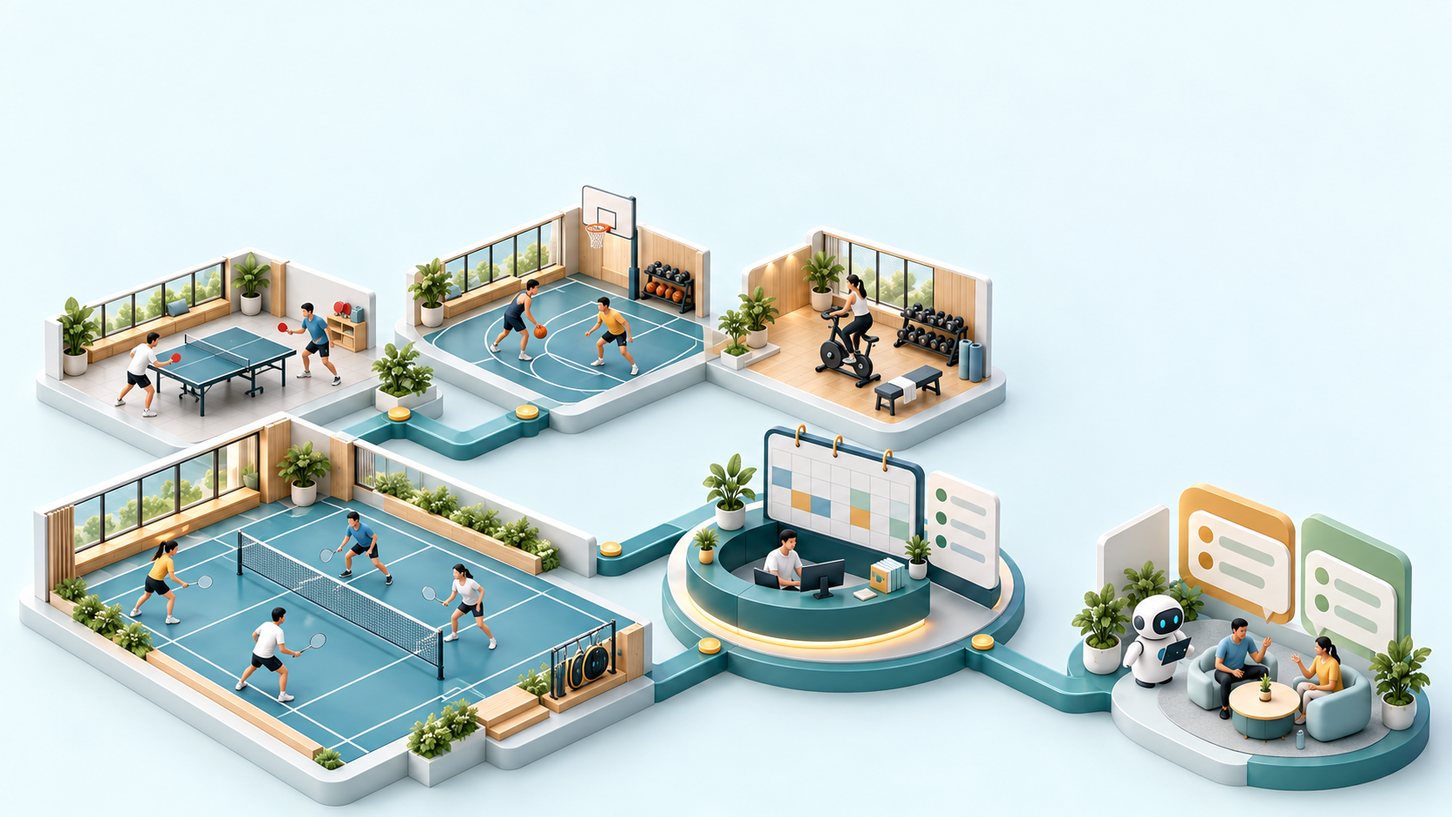
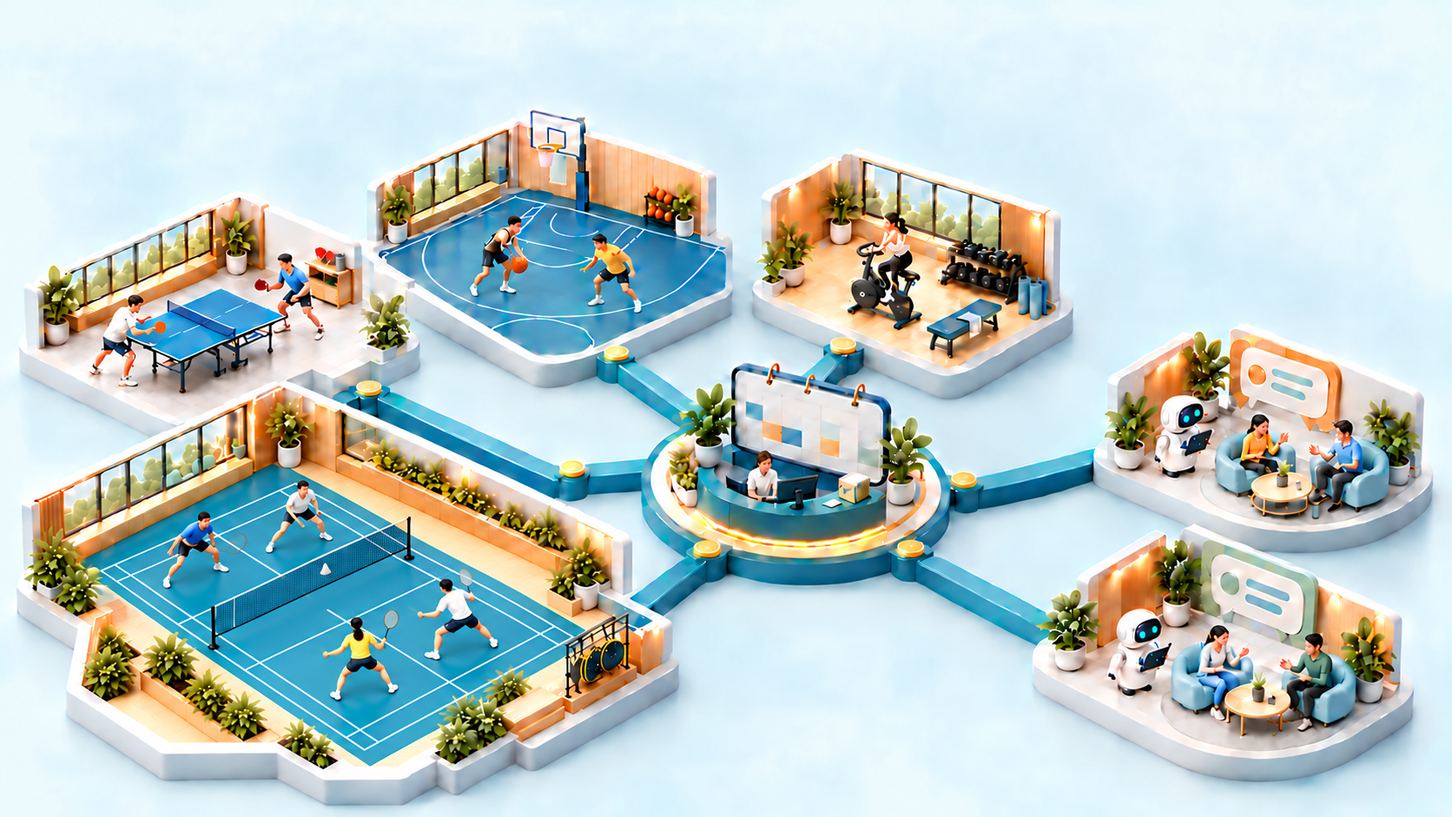
Refine sports markings, direct hub connections and glass login (v1.0)

diff --git a/app/static/gatherspace.css b/app/static/gatherspace.css
@@ -3,13 +3,16 @@
 .brand-mark .icon{width:30px;height:30px}
 .brand small{letter-spacing:1.3px}
 /* The concept scene belongs to the sign-in screen; dashboards keep their operational layout. */
-.login.gather-login{position:relative;isolation:isolate;min-height:max(100svh,640px);display:grid;grid-template-columns:minmax(0,1fr) minmax(280px,340px);align-items:start;gap:40px;padding:clamp(32px,4vw,72px);background:#eaf9fc url('/static/brand/gatherspace-login-desktop.png') center bottom/100% auto no-repeat}
+.login.gather-login{position:relative;isolation:isolate;min-height:max(100svh,640px);display:grid;grid-template-columns:minmax(0,1fr) minmax(280px,340px);align-items:start;gap:40px;padding:clamp(32px,4vw,72px);background:#eaf9fc url('/static/brand/gatherspace-login-desktop.png?v=star20261022') center bottom/100% auto no-repeat}
 .gather-login:before{content:"";position:absolute;inset:0;z-index:-1;pointer-events:none;background:linear-gradient(180deg,#f4f9fa80 0%,#f4f9fa00 20%)}
 .gather-login-title{align-self:start;min-width:0}
 .gather-login-title h1{display:flex;align-items:baseline;gap:20px;white-space:nowrap;font:650 clamp(42px,4.5vw,72px)/1.2 var(--display);letter-spacing:.06em;color:#123f4b}
 .gather-login-title h1 span{font:500 .38em/1.2 var(--display);letter-spacing:.015em}
 .gather-login-functions{white-space:nowrap;font-size:14px;font-weight:600;color:#1b4d59;margin-top:14px;line-height:1.8}
-.gather-login-access{width:100%;padding:28px;border:1px solid #ffffffd9;border-radius:16px;background:#fffffff0;box-shadow:0 16px 50px #103c4920;backdrop-filter:blur(16px)}
+.gather-login-access{width:100%;padding:28px;border:1px solid #ffffffb8;border-radius:16px;background:linear-gradient(135deg,#ffffff85,#e6f5fa52);box-shadow:0 18px 48px #123f4b1a,inset 0 1px 0 #ffffffb3,inset 0 -1px 0 #ffffff47;-webkit-backdrop-filter:blur(18px) saturate(135%);backdrop-filter:blur(18px) saturate(135%)}
+.gather-login .login-form input{background:#ffffff70;border-color:#ffffffc7;box-shadow:inset 0 1px 3px #15556308}
+.gather-login .login-form input:focus{background:#ffffffab;border-color:#197c8c;box-shadow:0 0 0 3px #197c8c24}
+@supports not ((backdrop-filter:blur(1px)) or (-webkit-backdrop-filter:blur(1px))){.gather-login-access{background:#f2fafbd9}}
 .gather-login .login-form h2{font-size:23px;margin:0 0 24px}
 .gather-login .login-form .field{margin-bottom:8px}
 .gather-login .login-form .btn{min-height:44px}
@@ -21,7 +24,8 @@
 .broadcast-global summary{cursor:pointer;font-size:12px;color:var(--muted)}
 .broadcast-global .check-label{margin-top:12px}
 .time-rule[hidden]{display:none}
+@media(min-width:761px) and (max-width:1620px) and (orientation:landscape){.login.gather-login{min-height:max(100svh,calc(400px + 44vw))}}
 @media(max-width:1000px){.login.gather-login{padding:32px;gap:24px;grid-template-columns:minmax(0,1fr) 320px}.gather-login-functions{font-size:12px}}
-@media(max-width:760px),(max-width:1000px) and (orientation:portrait){.login.gather-login{min-height:max(100svh,calc(min(100vw,560px)*1.25 + 340px));grid-template-columns:minmax(0,1fr);grid-template-rows:auto 1fr;gap:48px;padding:32px max(18px,env(safe-area-inset-right)) max(24px,env(safe-area-inset-bottom)) max(18px,env(safe-area-inset-left));background-image:url('/static/brand/gatherspace-login-mobile.png');background-size:min(100%,560px) auto;background-position:center top}.gather-login-title h1{font-size:44px;gap:14px}.gather-login-functions{font-size:12px;margin-top:10px}.gather-login-access{max-width:360px;justify-self:center;align-self:end;padding:24px}.broadcast-filter .field{min-width:0;width:100%;max-width:none}.broadcast-filter{gap:8px}}
+@media(max-width:760px),(max-width:1000px) and (orientation:portrait){.login.gather-login{min-height:max(100svh,calc(min(100vw,560px)*1.25 + 340px));grid-template-columns:minmax(0,1fr);grid-template-rows:auto 1fr;gap:48px;padding:32px max(18px,env(safe-area-inset-right)) max(24px,env(safe-area-inset-bottom)) max(18px,env(safe-area-inset-left));background-image:url('/static/brand/gatherspace-login-mobile.png?v=star20261022');background-size:min(100%,560px) auto;background-position:center calc(min(100vw,560px)*-.12)}.gather-login-title h1{font-size:44px;gap:14px}.gather-login-functions{font-size:12px;margin-top:10px}.gather-login-access{max-width:360px;justify-self:center;align-self:end;padding:24px}.broadcast-filter .field{min-width:0;width:100%;max-width:none}.broadcast-filter{gap:8px}}
 @media(max-width:359px){.login.gather-login{padding-left:max(16px,env(safe-area-inset-left));padding-right:max(16px,env(safe-area-inset-right))}.gather-login-title h1{font-size:40px}.gather-login-functions{font-size:11.5px}.gather-login-access{padding:22px}}
 @media(max-height:500px) and (min-width:761px){.login.gather-login{padding:24px;gap:24px;grid-template-columns:minmax(0,1fr) 310px}.gather-login-title h1{font-size:38px}.gather-login-functions{font-size:12px}.gather-login-access{padding:20px 24px}.gather-login .login-form h2{font-size:21px;margin-bottom:16px}}

diff --git a/app/static/index.html b/app/static/index.html
@@ -16,7 +16,7 @@
 <script src="/static/casual-workspace.js?v=1.0-confirm20261020" defer></script>
 <script src="/static/membership-workspace.js?v=1.0-confirm20261020" defer></script>
 <link rel="stylesheet" href="/static/schedule-workspace.css?v=1.0-confirm20261020">
-<link rel="stylesheet" href="/static/gatherspace.css?v=1.0-scene20261022">
+<link rel="stylesheet" href="/static/gatherspace.css?v=1.0-star20261022">
 <link rel="stylesheet" href="/static/bot-settings.css?v=1.0-inline20261022">
 </head>
 <body>

diff --git a/scripts/mobile_browser/check_brand.py b/scripts/mobile_browser/check_brand.py
@@ -57,7 +57,7 @@ try:
             portrait = width <= 760 or (width <= 1000 and height >= width)
             asset = 'gatherspace-login-mobile.png' if portrait else 'gatherspace-login-desktop.png'
             check(f'{width} selects dedicated background', asset in page.locator('.gather-login').evaluate('el=>getComputedStyle(el).backgroundImage'))
-            safe = page.evaluate("() => {const scene=document.querySelector('.gather-login').getBoundingClientRect(), form=document.querySelector('.gather-login-access').getBoundingClientRect();const mobile=matchMedia('(max-width:760px),(max-width:1000px) and (orientation:portrait)').matches;return mobile? form.top >= Math.min(innerWidth,560)*(1672/941)*.69 : form.bottom < scene.bottom-innerWidth*(941/1672)*.42;}")
+            safe = page.evaluate("() => {const scene=document.querySelector('.gather-login').getBoundingClientRect(), form=document.querySelector('.gather-login-access').getBoundingClientRect();const mobile=matchMedia('(max-width:760px),(max-width:1000px) and (orientation:portrait)').matches;const illustrationTop=form.left<innerWidth*.75?.81:.60;return mobile? form.top >= Math.min(innerWidth,560)*(1672/941)*.69 : form.bottom < scene.bottom-innerWidth*(941/1672)*illustrationTop;}")
             check(f'{width} form clears sports and group illustration',safe)
             check('login product name','聚场' in page.title())
             check('login intro only title and core line',''.join(page.locator('.gather-login-title').inner_text().split())=='聚场GatherSpace场地安排·活动报名·赛事组织·机器人与群')

diff --git a/docs/LOGIN_ARTWORK.md b/docs/LOGIN_ARTWORK.md
@@ -1,27 +1,158 @@
 # Login artwork
 
-The desktop and mobile backgrounds were generated with the built-in image generation tool. The login form is real HTML, separate from the artwork. The dashboard keeps its operational layout.
+Generated and edited with the built-in imagegen tool. The administrator form is live HTML with translucent glass styling, not part of the raster. Its position is retained. The authenticated dashboard keeps its operational layout.
 
-- [Desktop background](../app/static/brand/gatherspace-login-desktop.png): badminton in the lower-left foreground, then table tennis, basketball and a gym; group interaction at lower right, with login space above it.
-- [Mobile background](../app/static/brand/gatherspace-login-mobile.png): a separate portrait composition with the login form below the sports scene.
-- Styling and responsive selection: `app/static/gatherspace.css`.
+- [Desktop background](../app/static/brand/gatherspace-login-desktop.png): 1672 × 941.
+- [Mobile background](../app/static/brand/gatherspace-login-mobile.png): 941 × 1671.
+- Responsive backgrounds and glass surface: `app/static/gatherspace.css`.
 
-## Desktop generation prompt
+One central management hub connects directly to four sports venues (badminton, table tennis, basketball and a gym) and two chat groups through six independent branches. Badminton remains the foreground scene on the left. The mobile version is separately composed with space for the title above and form below.
+
+## Court and movement references
+
+- [BWF TV: World Tour Finals 2024 women's doubles highlights, at 00:33](https://www.youtube.com/watch?v=LmKah_tkwcg&t=33s): a frame captured from the actual playing video to guide full-court markings and four-player orientation.
+- [Sport England: Sports Halls Design and Layouts, page 43](https://sportengland-production-files.s3.eu-west-2.amazonaws.com/s3fs-public/sports-halls-design-and-layouts-2012.pdf): badminton court plan.
+- [FIBA Official Basketball Rules 2024](https://assets.fiba.basketball/image/upload/documents-corporate-fiba-official-rules-2024-v10a.pdf): basketball court diagram.
+- [ITTF Statutes 2023, section 2.1](https://db.ittf.com/sites/default/files/public/2023-06/2023_ITTF_Statutes_tracked_changes_version.pdf): table and net layout.
+
+The real match is used as a reference for the local badminton redraw. The court, net and four players are then oriented together along the exterior building's long axis. Broadcast logos, scores, spectator stands and athlete likenesses are not included in the illustration. Reference screenshots and PDF pages are kept outside the public project. Court geometry and human poses are visually reviewed illustration details, not measured sports-facility drawings.
+
+## Key prompt set
+
+### Desktop composition
 
 ```text
-Edit the supplied GatherSpace login illustration, preserving its premium soft 3D architectural miniature style, pale icy-blue background, teal infrastructure paths, warm oak and muted amber accents, realistic human proportions, gentle daylight and clean polished rendering. Create a WIDE 16:9 desktop login background, preferably 1920x1080. Recompose the whole scene for real login UI overlays, not a screenshot. No lettering, logos, numbers, watermark or drawn login form.
+Use case: stylized-concept. Asset: replacement 16:9 desktop login background, 1920x1080, for the existing GatherSpace website. Image 1 is STYLE REFERENCE ONLY. Rebuild the layout and court markings from scratch; do not inherit its incorrect lines or chain connections. Retain premium soft 3D architectural miniatures, pale blue-white seamless ground, matte teal, warm oak, restrained amber, gentle daylight, physically plausible people. No text, no logo, no watermark and NO painted login form.
 
-Composition: the upper-left 40% width and top 17% height are quiet blank background reserved for the product title. The upper-right rectangle x=73%–98%, y=8%–57% must be completely EMPTY pale background for a real login form. Do not place any people, chat cards, bot, or architecture behind this reserved rectangle. Put the group-and-robot island entirely in the LOWER RIGHT x=73%–96%, y=65%–94%, unobstructed and readable: one friendly small white assistant robot, two seated people, two simple upright chat cards with blank graphical lines. A compact venue scheduling hub with a calendar panel is at lower center x=49%–68%, y=64%–88%, with teal paths connecting all venues and the group island.
+ABSOLUTE TOPOLOGY: ONE central management hub with calendar and reception desk, surrounded by exactly SIX separate satellite islands: FOUR sports venues (badminton, table tennis, basketball, gym), and TWO distinct community chat groups. There must be exactly SIX independent teal paths, each starting directly at a different port on the CENTRAL hub and ending at ONE satellite. A clear star diagram, like a six-spoke wheel: central hub -> badminton; central hub -> table tennis; central hub -> basketball; central hub -> gym; central hub -> chat group A; central hub -> chat group B. Never connect satellite to satellite. Never join paths away from the hub, no shared trunk or ring road. Keep all six entire paths visible and separately traceable.
 
-Replace the left venue collection with exactly FOUR recognizable sports miniatures in a flowing ascending sequence: (1) BADMINTON is the largest, nearest foreground scene in the BOTTOM LEFT x=4%–43%, y=48%–92%. A real long rectangular turquoise badminton court, correctly drawn singles/doubles sidelines and service lines, ONE single net across the center width, four clearly separated adult doubles players, two per side, each holding exactly ONE small badminton racket in only one hand. Natural balanced ready stances, two arms and two legs each, no overhead action poses; one tiny shuttle. Badminton is the primary focal point. (2) TABLE TENNIS behind it at middle left x=5%–25%, y=27%–43%, exactly one rectangular table with one low center net and two adult players at opposite ends each with one small solid paddle. (3) BASKETBALL behind near upper center-left x=28%–47%, y=23%–44%, a clearly marked small half-court with a single hoop/backboard at its baseline, two players, one basketball only. (4) GYM upper-middle x=51%–68%, y=23%–45%, a wood-floored gym corner with one stationary bike and neatly racked dumbbells, one person riding the bike in a normal seated posture. All court planes, equipment scale, nets and activities must make physical sense. Keep islands apart, don’t merge courts or equipment. Use sparse, anatomically clean people rather than crowds. One racket per racket player, no duplicate limbs, no impossible hand grips. Leave generous breathing room between these modules. The reference is a style and concept source; remove the craft room, yoga room and second group island.
+Composition for actual HTML overlay: leave the top-left x=3–40%, y=3–15% quiet for the real title, and the upper-right rectangle x=77–99%, y=2–44% EMPTY light background for the existing real login box. Hub centered near x=53%,y=61%. Arrange satellites around it: large BADMINTON in lower left x=3–43%,y=58–94%, TABLE TENNIS upper left x=3–26%,y=27–49%, BASKETBALL upper mid-left x=29–48%,y=18–40%, GYM upper middle x=54–71%,y=20–40%; CHAT GROUP A middle-right x=77–97%,y=49–68%, CHAT GROUP B lower-right x=75–97%,y=77–95%. Exactly one small white robot plus two seated people and a simple upright chat-message card in EACH group island. The two groups are distinct endpoints, with separate connections. No duplicate sports.
+
+COURT ACCURACY IS ESSENTIAL. Use a slightly elevated isometric architectural view so all markings are legible. Construct markings as precise straight geometric lines on each planar court BEFORE placing people.
+
+BADMINTON: a true long rectangular 13.40 m x 6.10 m court, length-to-width 2.20:1 before perspective. Treat its two short ends as y=0 and y=13.40, width x=0..6.10. White outer rectangle. Two inner singles sidelines at x=0.46 and x=5.64, both run the entire length. Only TWO short-service transverse lines at y=4.72 and y=8.68 (1.98 m each side of the net). Only TWO doubles rear-service transverse lines at y=0.76 and y=12.64. Two center-service line segments at x=3.05: y=0..4.72 and y=8.68..13.40; these MUST STOP at the short-service lines and must NOT continue through the central forecourt. ONE real net spanning across width at y=6.70, with its posts at the doubles sidelines. No center-floor painted stripe under the net. NO extra tennis service boxes, circles, random grids or diagonal lines. Make the full boundary and line system visible. Four sparse adults, two on each side of the net, normal balanced ready positions. Each adult exactly two arms/two legs and only ONE badminton racket in one hand. No jumping, no intersecting bodies.
+
+TABLE TENNIS: exactly one dark teal rectangular table 2.74 m x 1.525 m, white perimeter lines, just ONE thin longitudinal doubles centre line dividing left/right halves, ONE low net across the midpoint perpendicular to its long axis. No additional transverse painted line or grid. Two players at opposite short ends, one paddle each.
+
+BASKETBALL: a clearly recognizable single-hoop FIBA-style HALF COURT (roughly 14 m long x 15 m wide, not a tiny badminton rectangle). ONE hoop at the center of baseline. A rectangular key 4.90 m wide, free-throw line 5.80 m from baseline, free-throw semicircle at its outer end, one small no-charge semicircle beneath basket, and one large three-point arc centered under the basket joining two short parallel corner lines leading to the baseline. Use the near semicircle of center court at the opposite edge. No arbitrary concentric circles, no tennis lines. Two natural standing players and a single ball.
+
+GYM: plain oak floor with NO court markings; a stationary bike with one normally seated rider, one dumbbell rack and an exercise bench. Keep human anatomy and equipment rational.
+
+Make badminton the largest and first foreground subject. Keep all sports courts separate from circulation paths. Beautiful calm professional miniature visualization, light glass-like material accents, clean composition, realistic anatomy and clear six-spoke architecture.
 ```
 
-## Mobile generation prompt
+### Badminton redraw from a real doubles match
 
 ```text
-Create a separate PORTRAIT 9:16 mobile login background for GatherSpace, around 1080x1920. Use the supplied wide illustration ONLY as a style/content reference. Keep the same premium soft 3D miniature architecture, icy pale-blue seamless background, teal paths, warm oak, restrained amber, friendly small robot and realistic human anatomy. This is a mobile website background, not a phone mockup. No text, logos, watermark, buttons or drawn login form.
+局部重绘第一张管理平台插图左下角的羽毛球场。第二张是从BWF官方真实女双比赛截取的全场画面，请以真实比赛画面为准确的运动学和场线参考，而不是沿用第一张错误的羽毛球场线。
 
-Very deliberate overlay zones: top 0%–14% is EMPTY pale background for a real title. Bottom 66%–100% is EMPTY pale background for a real mobile login form. Confine ALL illustrated objects to the middle 17%–62% height, within x=5%–95%. Keep a few percent of clear breathing room above the login zone. Compose one dense but orderly miniature campus flowing vertically, readable at phone width. Largest foreground focal point is BADMINTON at middle-lower left (approximately x=7%–68%, y=39%–60%), real rectangular turquoise court, correct badminton doubles/singles/service lines, just one net across its width, four adult players split two per side; each has exactly two arms/two legs and holds just ONE badminton racket with only one hand, in natural grounded ready stances. No jumping or awkward action, no merged limbs. Behind/above it, show TABLE TENNIS at x=8%–42%, y=21%–33% with one correct rectangular table/net and two players at opposite ends with single solid paddles, BASKETBALL half-court at x=48%–88%, y=18%–33% with one hoop/backboard and two players sharing one ball. A small GYM at x=56%–89%, y=34%–42% has a stationary bike with a rider seated normally and neatly stored dumbbells. Exactly four separate sporting areas, physically plausible court layouts and equipment.
+只替换第一张图里的羽毛球场内部。允许改变这块球场的局部观察角度和四人的站位，让它像第二张比赛画面那样能完整看清场地；保留左下角大平台的整体位置和尺寸，保留木墙、窗、植物和右侧球拍架。乒乓球、篮球、健身房、两个聊天群、中央管理岛、六条直接连接、留白、整张构图和1672x941画布全都不变。
 
-A SMALL friendly robot-and-group island is at lower right x=71%–94%, y=48%–60%, with one robot and two seated adults and a single stylized upright chat card; this must stay ABOVE the blank form area. A compact calendar board between sports modules represents shared scheduling. Connect modules using restrained teal walkways. Avoid crowds and clutter, make hands/equipment anatomically coherent, no extra arms, no repeated rackets in a player's hands. All top and bottom reserved UI space stays completely empty; do not put any architecture below 64% image height.
+把第二张真实画面的完整场地布局和四人隔网相对的关系，转换成第一张的精致温暖3D建筑微缩模型风格，地面改为青蓝色、标线白色。球场采用略偏正面的高机位视角，近处两人背对镜头面向远端，远处两人面向近处，两队中间只有一张横跨场地短边的球网。不要为了硬保留旧视角而画错线或把人朝向队友。可以直接按真实比赛图的全场透视来重建这一块。
+
+必须从真实比赛图逐条对应：
+- 四周外边框；
+- 两条贯穿全长的内侧单打边线；
+- 球网两侧各有一条完整的前发球线，二者平行于球网、分别在网两边相同距离处，清晰可见；
+- 两条靠近两端底线的双打后发球线；
+- 每半场中线从底线只延伸到前发球线，球网两边的前发球区不能有中线。
+也就是两条前发球线之间留出一个完整的无中线区域，网在该区域中央。不能漏掉任一前发球线。参考比赛截图里的真实线条连接关系，不要臆造其他线。
+
+四个人仍用原插画的蓝衣、黄衣以及两个白衣，可重新安排站位。动作参考真实比赛帧的接球准备姿势，四个人都注视球网另一侧，近侧两人背朝镜头、远侧两人面向近侧，不看队友。每人恰好两手两脚、一只球拍，手部自然。只保留一只小羽毛球。不要复制真实运动员面孔、比赛赞助文字、商标、比分牌或观众，只借鉴场地、朝向和自然动作。完整场地清晰易读，风格与原图一致。
+```
+
+### Racket and far-court divider correction
+
+```text
+Two tiny corrections to this illustration, ONLY inside the lower-left badminton court. Preserve the newly correct front-facing full-court view, the TWO transverse short service lines, and all other details.
+
+1. The near-left YELLOW-SHIRT player incorrectly holds TWO rackets. Remove the racket in her LEFT hand (the small racket on the LEFT of her head/body), and give that left hand a natural empty relaxed balancing pose. KEEP ONLY the one racket in her RIGHT hand, on the RIGHT side of her body. Exactly ONE racket for each of all four players.
+2. Add the missing CENTER SERVICE LINE in the FAR HALF of the badminton court: a straight white line along the long axis, from the midpoint of the FAR short baseline to the midpoint of the FAR short service line. It stops at that far short service line; it must not reach the net. It mirrors the already-correct center divider in the NEAR half. Do not add any other line.
+
+No changes to player positions or facing directions, no changes to the net, no changes to any other court markings. No changes outside this badminton scene. Keep the entire 1672x941 image, six spokes and other islands exact.
+```
+
+### Whole-court alignment to the building
+
+```text
+整体旋转对齐，局部修改第一张图左下的羽毛球场。现在这块球场错误地正对镜头、纵向摆放，没有沿外部建筑。请把“整片羽毛球地面 + 全部白色场线 + 球网 + 四名运动员”当作一个刚性整体，在水平地面上转向，使它与现有外部建筑、台座的横向长边完全一致。不要只旋转球网，不要让人物留在旧朝向。
+
+明确方向：球场两条长边应平行于植物木墙从左上向右下延伸的那条长边，场地长轴是屏幕 左上 ↘ 右下，横向铺满现有长方形台座；两条短底线则是 左下 ↗ 右上。球网横跨短宽度，也是 左下 ↗ 右上 的 / 方向，位于长轴中点。不能再像现在这样让球场的长轴几乎竖直朝向镜头。
+
+所有元素一起按这个方向转过去：
+- 原来远端的蓝衣和白衣两人转到左上半场，两人都面对右下半场、看向网对面的对手；
+- 原来近端的黄衣和白衣两人转到右下半场，两人都面对左上半场、看向网对面的对手；
+- 四人的脚、躯干、头部、球拍也随各自球队朝向一起旋转。每人仍只有一只球拍，两手两脚、自然准备姿势。
+
+必须完整保留当前球场已画出的白线结构，只改变它们随整体旋转后的透视：
+两条前发球线必须都在、分别在球网两侧，平行于球网并横贯整场宽度；每半场中线从底线到前发球线就停止；两条后发球线、两条内侧单打边线、外边框完整。不要漏掉一侧前发球线，不要把前发球线当成网顶。整套标线是同一张标准场地图的透视变换。
+
+外部建筑、窗、植物、右侧球拍架、整个平台的轮廓与位置完全不动。其他三个运动场、两个聊天群、中央调度岛、六条直连道路、背景留白和1672x941整图均不动。只在现有羽毛球台座内部旋转并适配完整场地与四人，继续保持原来的精致3D微缩建筑风格。
+```
+
+### Mobile composition
+
+```text
+Create a separate PORTRAIT 9:16 mobile login background (about 941x1672) by recomposing the first supplied illustration. Use its premium soft 3D architectural miniatures, pale icy blue background, warm oak, teal connecting walkways and natural people. Reference image 2 supplies the correct badminton floor-line topology. No text, labels, logos, phone frame, login form or watermark.
+
+Leave top 0–14% height completely blank for real HTML title. Leave bottom 67–100% completely blank for real HTML login form. ALL illustrations stay in the middle 17–63% height, x=3–97%, with clear breathing room.
+
+Exactly SEVEN islands:
+One central circular management desk with calendar and one seated person, at center x50%, y40%.
+Four SPORTS venues: badminton lower left and largest focal point (x5–58%,y44–62%), table tennis upper left (x5–40%,y25–38%), basketball half-court upper middle (x30–65%,y18–31%), gym upper right (x67–96%,y25–37%).
+Exactly TWO separate CHAT GROUP islands to the right: one at x73–96%,y41–49%, another at x66–94%,y53–62%; each a friendly small robot, two seated adults and one upright abstract chat card with blank graphical marks.
+Crucial topology: exactly SIX distinct independent teal walkways radiate DIRECTLY FROM THE SINGLE CENTRAL HUB, one to each of the four sports and two chat groups. No venue-to-venue links, no chained branches. Readable star composition, paths don't cross a court or another island.
+
+Badminton: copy the regulation layout from reference 2 onto a convincing perspective rectangular teal floor, 13.4:6.1 ratio, long axis upper-left to lower-right. One net crosses the SHORT width in / diagonal direction. Include both short service lines 1.98m each side of net, both doubles rear service lines 0.76m inside each baseline, inner singles sidelines 0.46m inside outer sidelines, and center service dividers that STOP at short service lines. Both front service areas are clear of center dividers. Make both short service lines visible from the camera. FOUR natural adult doubles players, blue/yellow on upper-left half BOTH facing lower-right ACROSS net, two white shirts on lower-right half BOTH facing upper-left ACROSS net. In particular foreground white-shirt man's racket is on the LEFT of his body reaching toward the net, and blue-shirt man's racket is on the RIGHT pointing toward opponents. Opponents face one another, teammates don't face one another. One racket each, two arms/two legs each, restrained ready poses, one shuttle only. No distorted anatomy.
+Table tennis: rectangular table divided by net at midpoint, white perimeter and one longitudinal centerline, two players at opposite ENDS, one paddle each.
+Basketball half-court: one hoop at baseline, correctly centered rectangular key/free-throw line and semicircle, one three-point arc with straight corner segments, center half-circle at open baseline. Two players, one ball, not arbitrary overlapping arcs.
+Gym: stationary bike with correctly seated rider, dumbbell rack and a bench, no court lines.
+Keep the first image's friendly calm rendering and coherent architectural scale. Preserve the distinct sports, chat groups and one central hub. Not a dashboard screenshot.
+```
+
+### Mobile court alignment
+
+```text
+Use case: precise-object-edit.
+Image 1 is the mobile portrait EDIT TARGET (941 x 1672). Image 2 is the corrected desktop REFERENCE for the badminton court only.
+Replace only the badminton floor, white court markings, net and four players inside the lower-left badminton building of image 1 with the correctly aligned badminton arrangement shown in image 2. Keep image 1's exterior building, footprint, all other venues, all six separate hub connections, both chat groups, central calendar island, top and bottom pale-blue blank spaces exactly in place. Output must stay portrait 941 x 1672.
+
+Critical geometry: the court, markings, net and all four people are ONE oriented scene. Long sidelines run upper-left to lower-right, parallel to the long planted wood wall of the existing building. Baselines and net run lower-left to upper-right, across that long axis. Do NOT make a front-facing vertical court inside the diagonal building.
+Two people occupy the upper-left half facing lower-right toward their opponents; the other two occupy the lower-right half facing upper-left. Use the exact coherent four-player orientation of image 2. Four people total, one racket per person, two arms and two legs each, natural ready positions.
+Keep every court marking visible: outer doubles rectangle, two inset singles sidelines, two rear doubles-service lines, TWO front short-service lines (one on each side of the net, parallel to the net, each spanning the court width), and a center service divider on each half that stops at the short-service line. Do not omit either short service line. These are all lines on one plane with the same perspective.
+Keep soft polished miniature 3D illustration quality and original colors. No labels, annotations, red circles, extra rackets, text or watermark. Only the badminton interior changes.
+```
+
+### Mobile doubles detail correction
+
+```text
+局部修复这张手机竖图，其他区域严格不变。现在羽毛球场只有三名运动员，漏了蓝衣运动员的搭档。请只做下面两处修正：
+1. 在球网上方的远端半场补上一名白色运动上衣、深色短裤的运动员，与蓝衣运动员同队。新增人物大约在蓝衣人物右上方的空位，头部约(278,883)、双脚约(263,950)与(306,944)（整图941x1672坐标，仅作定位）。必须站在球网上方那半场的蓝色地板内，不站到墙上。自然屈膝接球，脸、躯干、双脚都朝屏幕右下方，面向网对面的黄衣和白衣对手。新增人物只有一支球拍，两臂两腿。现有三个人不动。最终远端蓝+白两人、近端黄+白两人，共四人。
+2. 补出远端半场缺失的白色发球区中线：从远端底线中点沿长轴向右下方延伸，直到远端前发球线停止（可被蓝衣人物局部遮挡），与近端已有的中线对应。现有所有其他白线，尤其球网两边的两条前发球线完整保留。
+球场的整体方向已经正确，不再旋转球场或改变建筑。球网、四条边、所有场地、中央岛、六条直连道路、两群、留白都保持。画质和光影保持一致。
+```
+
+### Mobile net corridor correction
+
+```text
+仅精修手机竖图羽毛球场的一条错误白色中线。所有四名人物、朝向、球网、建筑、其他白线与整图布局完全不动。
+远端半场的发球区中线应从远端底线中点开始，一直到远端前发球线结束，不可以从前发球线继续画到球网。整图941x1672里，正确线段大约是(143,899)到(229,965)，可被蓝衣运动员局部遮挡。把这条细白线接到底线。
+现在错误地延长进网前区域的白线，大约(229,965)到(279,1011)，应擦掉并还原蓝色地面；原有球网经过这段时必须完整保留，不能擦掉球网。近端中线从近端前发球线之后才出现。
+保留球网两侧、平行球网的两条横贯场宽的前发球线。不要改变其余线、球场方向、四个人的位置姿态和物品。不要添加任何新物体。原样保持941x1672完整竖图、色彩、柔和光影与清晰度。
+```
+
+### Mobile service divider correction
+
+```text
+只给图中羽毛球场补齐两条白色发球区中线，精确局部编辑，不要改其他内容。当前右下方近端半场完全缺少中线，左上远端中线也只画了半截。
+在941×1672图像中：
+A. 补齐左上半场细白直线，从远端底线中点(143,899)延伸到远端前发球线(229,965)。蓝衣选手遮挡部分不必显示，但其余段必须连续。
+B. 补上右下半场细白直线，从近端前发球线中点(279,1011)延伸到底线中点(383,1101)。这条线应清楚可见，从黄衣与白衣两人的中间穿过地面，只是地面白线。
+两条线均沿球场的左上↘右下长轴，与球场长边平行。中央球网前后发球线之间的走廊保留纯蓝地面、不画纵线。不能删除任何原有横向发球线和边线，不改变四个人、球拍、球网、建筑、透视、色彩、六个连接、留白或任何其他区域。这次只新增和延长这两条地面白线。
+```
+
+### Mobile near-court divider
+
+```text
+只改羽毛球场右下半场的一处地面标线：黄衣人和白衣人所在这一半场，还缺一条将左右发球区分开的白色中线。请清晰画出这条白线，从他俩中间、靠近球网那条前发球线的中点，向右下延伸到后端底线的中点，把近端发球区分成左右两个矩形。线在两个人之间的蓝色地面上，走向与两条长边平行；不要从球网开始画，而是从近端前发球线开始。这是唯一要增加的线，其他所有像素内容、人物、场地朝向、现有标线、球网和整张941x1672竖图构图保持原样。务必让近端半场中间能看见这条完整的白色分隔线。
 ```

diff --git a/app/static/brand/README.md b/app/static/brand/README.md
@@ -7,3 +7,5 @@ Generation prompt:
 > Use case: stylized-concept. Asset type: production homepage illustration for a venue-and-activity registration management platform, newly named 聚场 GatherSpace. Create a refined, coherent isometric 3D architectural concept rendering, landscape 1536x1024. Subject: one shared management hub links different usable spaces to activities, membership sign-ups, several small robot assistants, and community chat groups. Compose a single connected miniature campus on a very pale blue-white seamless background. At center a low circular teal management desk with a neat calendar board and a small signup list icon, connected by fine physical teal pathways to three venue dioramas on the left (an indoor multi-sport court, a community workshop with tables, a flexible studio/classroom), and two compact message group stations on the right, each with a tiny friendly robot assistant and two simple stacked chat panels. Show that venue/time planning and activity registration connect to the groups through the robots. Include one discreet trophy and pairing bracket beside the sport court to suggest the current sports tournament module without making the whole scene about badminton. No clouds, no magic AI glow, no giant robot, no dashboards full of fake numbers, no text or letters anywhere, no logos, no watermark. Style: tactile matte architectural models, porcelain and satin colored acrylic, clean accurate geometry, subtle realistic contact shadows, calm daylight, professional product illustration, readable silhouettes, generous margins. Palette: deep teal #155563, muted sky blue #5F91AD, pale blue #EDF5F6, gentle moss #91AB88, restrained warm amber #E7B96C, white. View 35-degree isometric. Balanced integrated composition, important objects fully visible, clear fine connections, neither cartoon toy clutter nor neon sci-fi. The visual must feel appropriate for a real calm admin workbench and explain connecting spaces, activity registration, robots and groups. No text in the raster because labels will be rendered accessibly by the page.
 
 Current login assets: `gatherspace-login-desktop.png` (landscape) and `gatherspace-login-mobile.png` (portrait). Their prompts and composition notes are in [Login artwork](../../../docs/LOGIN_ARTWORK.md). These assets are loaded only on the login page.
+
+The current login composition connects the central management hub directly to four venues (badminton, table tennis, basketball and a gym) and two separate chat groups. The login panel is live HTML with a translucent glass surface; it is not painted into the illustration.

diff --git a/docs/CHANGELOG.md b/docs/CHANGELOG.md
@@ -1,5 +1,11 @@
 # Changes
 
+## v1.0 — 2026-10-22 · Direct venue connections and glass login
+
+- Give the login illustration six direct branches from its central hub to four sports venues and two chat groups.
+- Refine badminton markings and player orientation using a court-layout reference; keep separate desktop and mobile compositions.
+- Keep the login panel in place and apply translucent glass styling with a readable fallback.
+
 ## 2026-10-22 · 登录场景与场地属性
 
 - 登录页采用独立桌面、手机背景，羽毛球作为左下前景；登录窗避让群与机器人画面。
